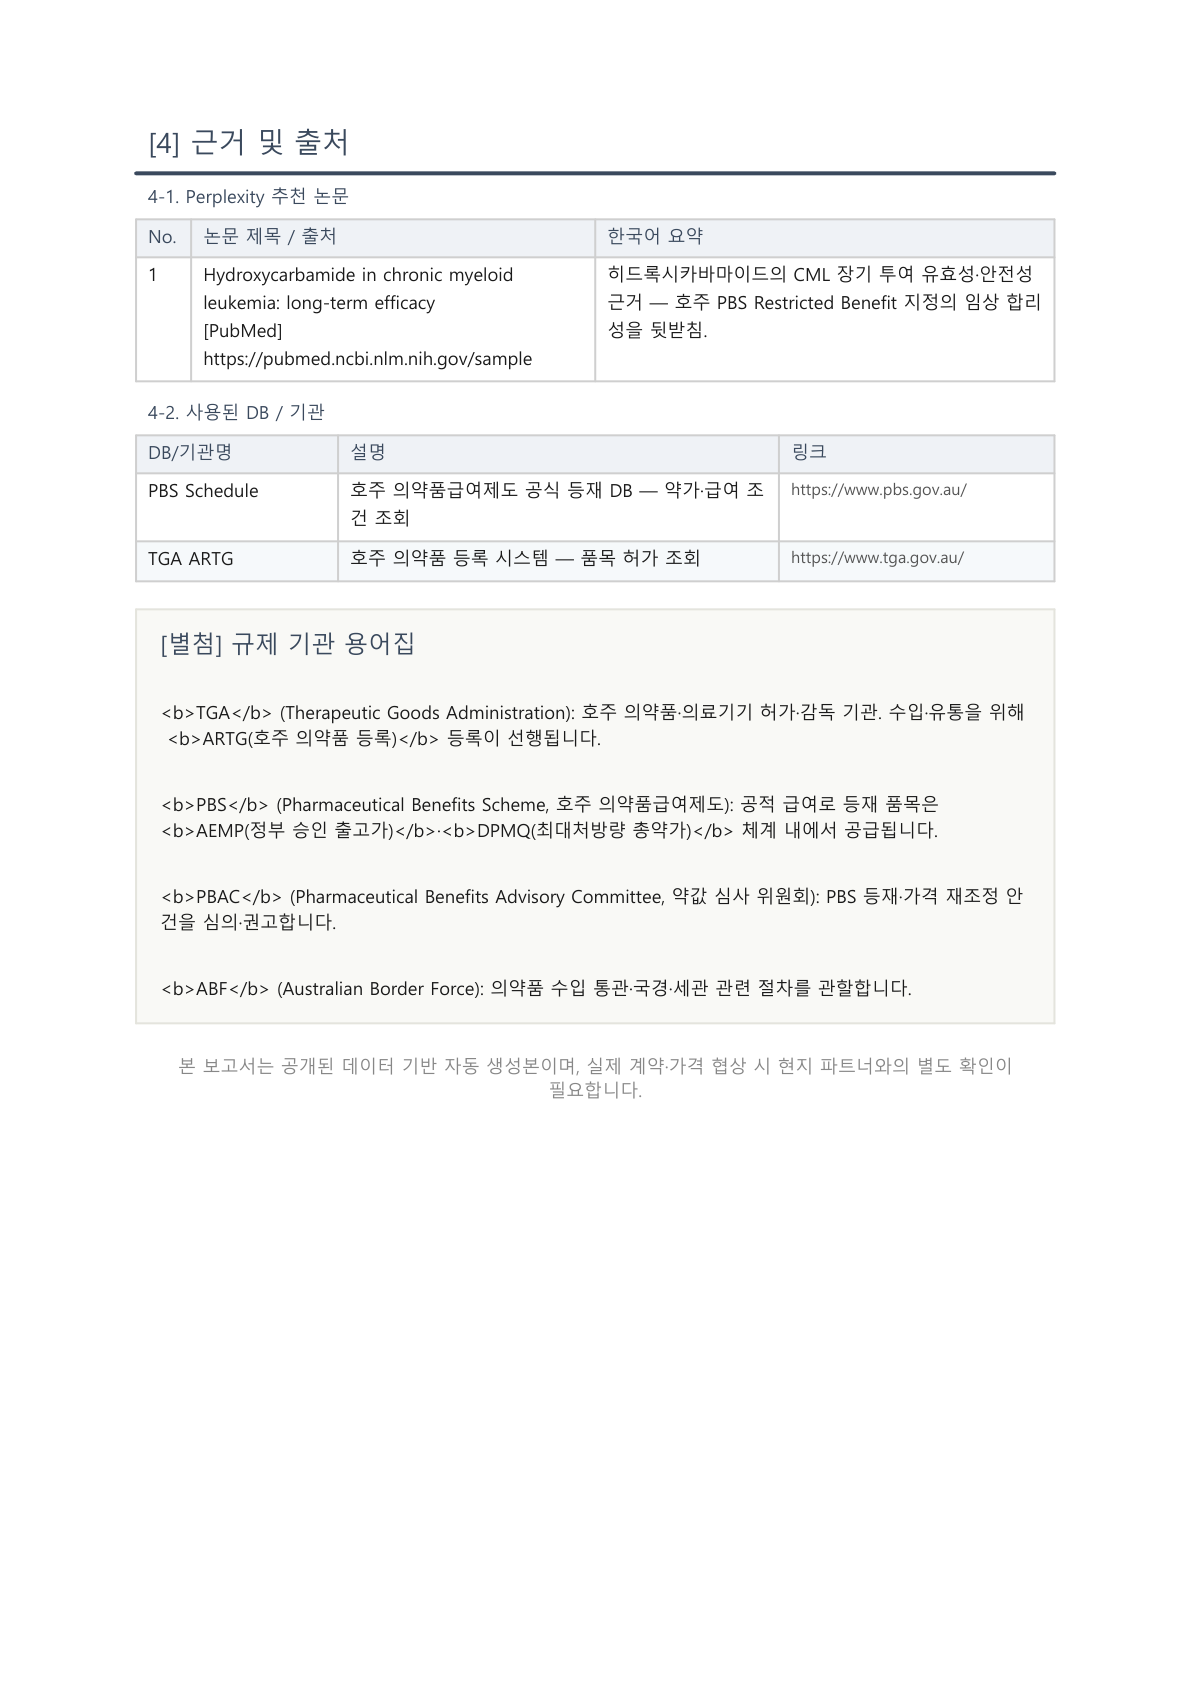
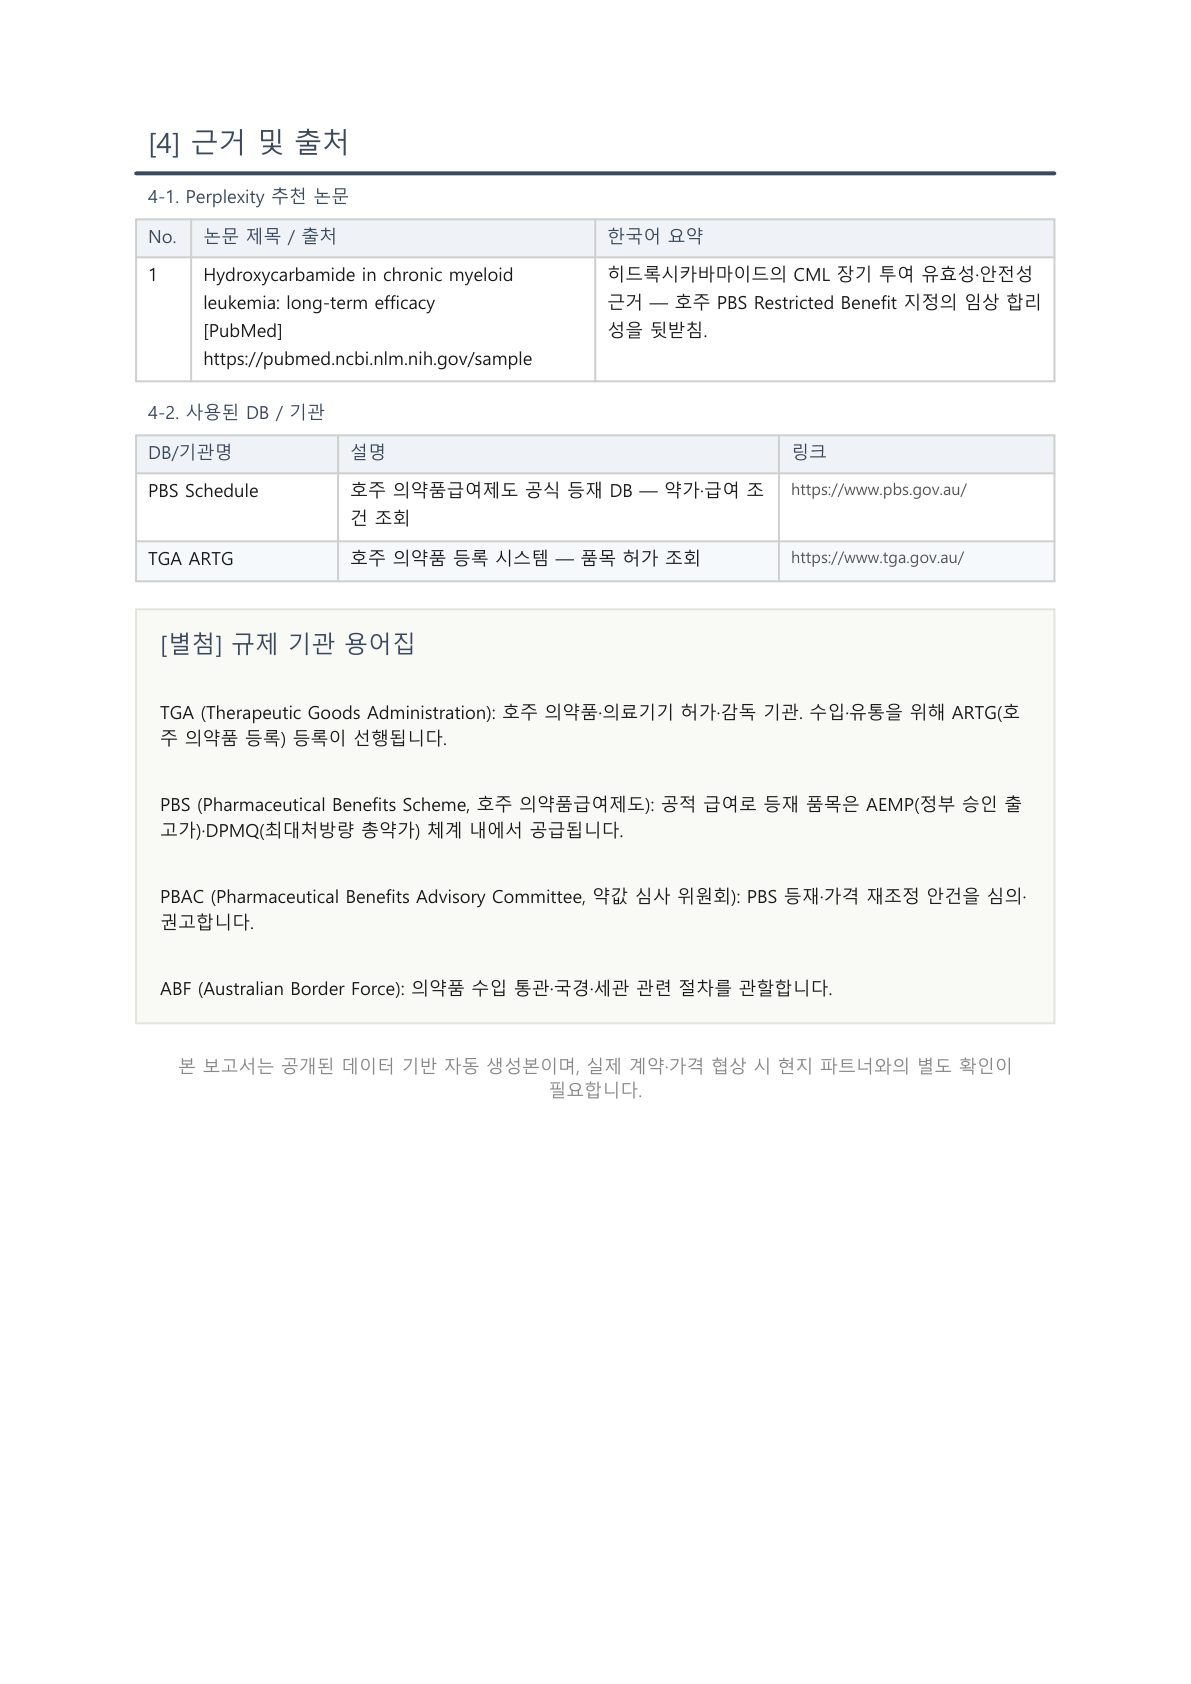
report: 별첨 용어집에서 <b> 태그가 보이던 문제 수정 (_xml_amp_only)
Made-with: Cursor

Changed region(s): [[0.1243, 0.4014, 0.8699, 0.4941], [0.1243, 0.5249, 0.8388, 0.5867]]

diff --git a/upharma-au/report_generator.py b/upharma-au/report_generator.py
@@ -751,6 +751,10 @@ def _render_pdf_stage1_v3(payload: ReportR1Payload, out_path: Path) -> None:
             .replace(">", "&gt;")
         )
 
+    def _xml_amp_only(text: str) -> str:
+        """reportlab Paragraph XML — 신뢰된 본문만. & 만 이스케이프 (<b> 등 태그 유지)."""
+        return (text or "").replace("&", "&amp;")
+
     def _trunc(text: str, limit: int = 2000) -> str:
         s = (text or "").strip()
         return s if len(s) <= limit else s[:limit] + "…"
@@ -975,7 +979,7 @@ def _render_pdf_stage1_v3(payload: ReportR1Payload, out_path: Path) -> None:
             [Paragraph(_rx("[별첨] 규제 기관 용어집"), s_apx_title)],
             [
                 Paragraph(
-                    _rx(
+                    _xml_amp_only(
                         "<b>TGA</b> (Therapeutic Goods Administration): "
                         "호주 의약품·의료기기 허가·감독 기관. 수입·유통을 위해 "
                         "<b>ARTG(호주 의약품 등록)</b> 등록이 선행됩니다."
@@ -985,7 +989,7 @@ def _render_pdf_stage1_v3(payload: ReportR1Payload, out_path: Path) -> None:
             ],
             [
                 Paragraph(
-                    _rx(
+                    _xml_amp_only(
                         "<b>PBS</b> (Pharmaceutical Benefits Scheme, "
                         "호주 의약품급여제도): 공적 급여로 등재 품목은 "
                         "<b>AEMP(정부 승인 출고가)</b>·<b>DPMQ(최대처방량 총약가)</b> "
@@ -996,7 +1000,7 @@ def _render_pdf_stage1_v3(payload: ReportR1Payload, out_path: Path) -> None:
             ],
             [
                 Paragraph(
-                    _rx(
+                    _xml_amp_only(
                         "<b>PBAC</b> (Pharmaceutical Benefits Advisory Committee, "
                         "약값 심사 위원회): PBS 등재·가격 재조정 안건을 심의·권고합니다."
                     ),
@@ -1005,7 +1009,7 @@ def _render_pdf_stage1_v3(payload: ReportR1Payload, out_path: Path) -> None:
             ],
             [
                 Paragraph(
-                    _rx(
+                    _xml_amp_only(
                         "<b>ABF</b> (Australian Border Force): "
                         "의약품 수입 통관·국경·세관 관련 절차를 관할합니다."
                     ),
